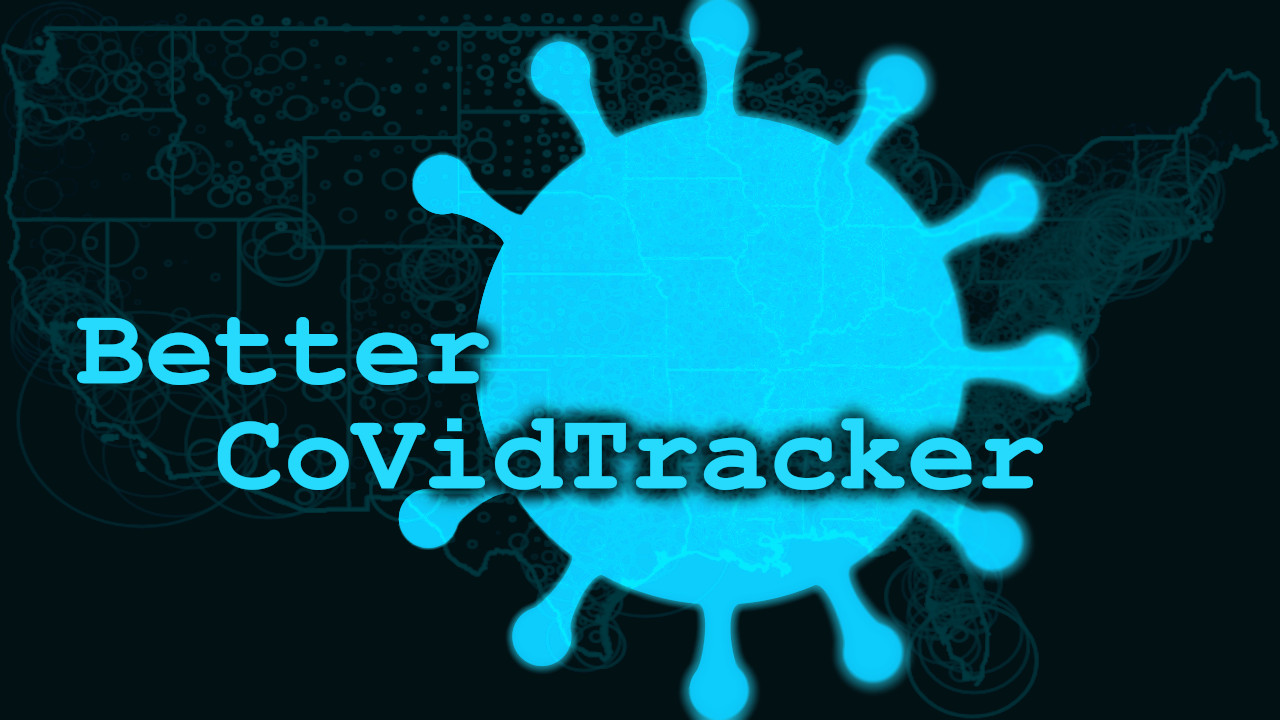
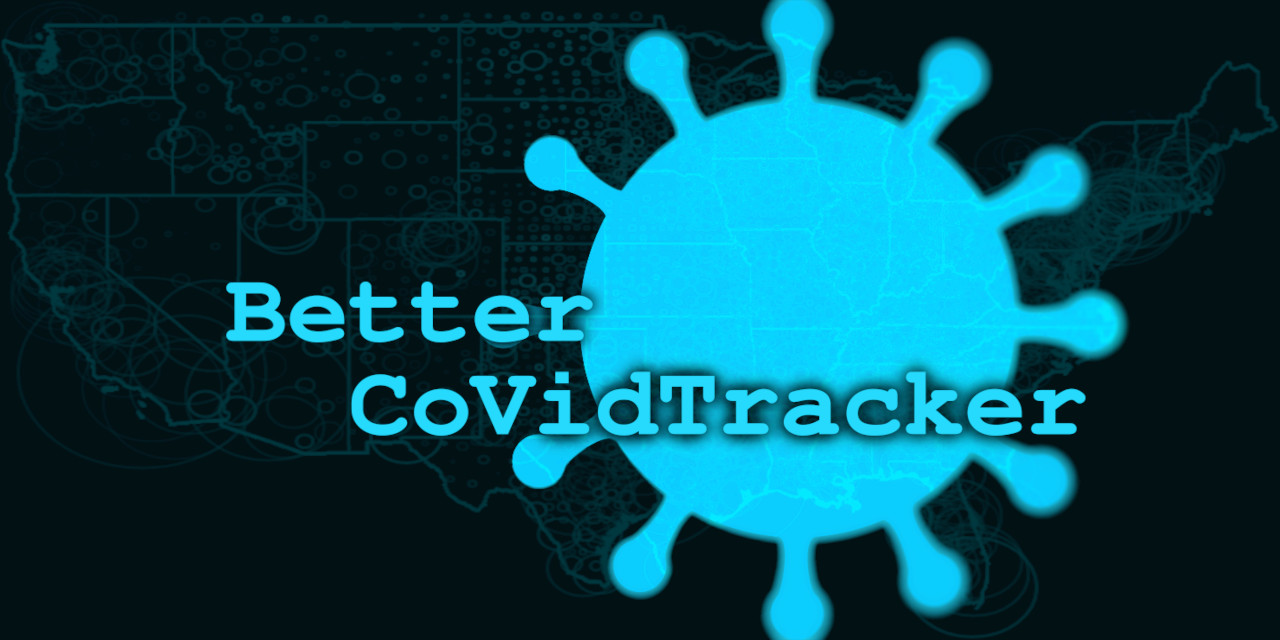
Adding Video Placeholder
Mostly added a self-referential video-placeholder. Also, changed
some wording and changed the aspect ration of the cover photo so
that it matches social media specifications.

Changed region(s): [[0.0625, 0.0, 0.9062, 1.0]]

diff --git a/index.md b/index.md
@@ -1,7 +1,9 @@
 # Welcome To The Better CoVid Tracker GitHub Page
 Better CoVid Tracker is built on a philosophy of objective accuracy to bring current information to the public.
 
-## Welcome to Covid Tracker Backened
+![Future Video](./assets/images/FutureVideo.png "Future Video Goes Here")
+
+## Welcome to Covid Tracker Backend
 
 The backend is an API for the BetterCovidTracker. It uses the most current Johns Hopkins data to fill a backend SQLite3 database and power the API.
 

diff --git a/web/deploying.md b/web/deploying.md
@@ -1,4 +1,4 @@
-# Better Covid Tracker Web Frontend
+# Better Covid Tracker Web Deployment
 The Better Covid Tracker is powered by React and utilizes the Arwes framework to show useful, unbiased statistics concerning the CoVid19 pandemic; in a cool, futuristic, SciFi kinda way.
 ## Get Started
 Building the React frontend of BCT requires [NodeJS](https://nodejs.org/ "Learn About NodeJS!") and a copy of BetterCovidTracker source code. Get started by cloning this repo:

diff --git a/web/features.md b/web/features.md
@@ -1,4 +1,4 @@
-# Better CoVid Tracker Features
+# Better CoVid Tracker Web Features
 BCT runs on most modern browsers and offers two main features for viewing US CoVid-19 statistics.
 * HeatMap
 * TimeSeries
